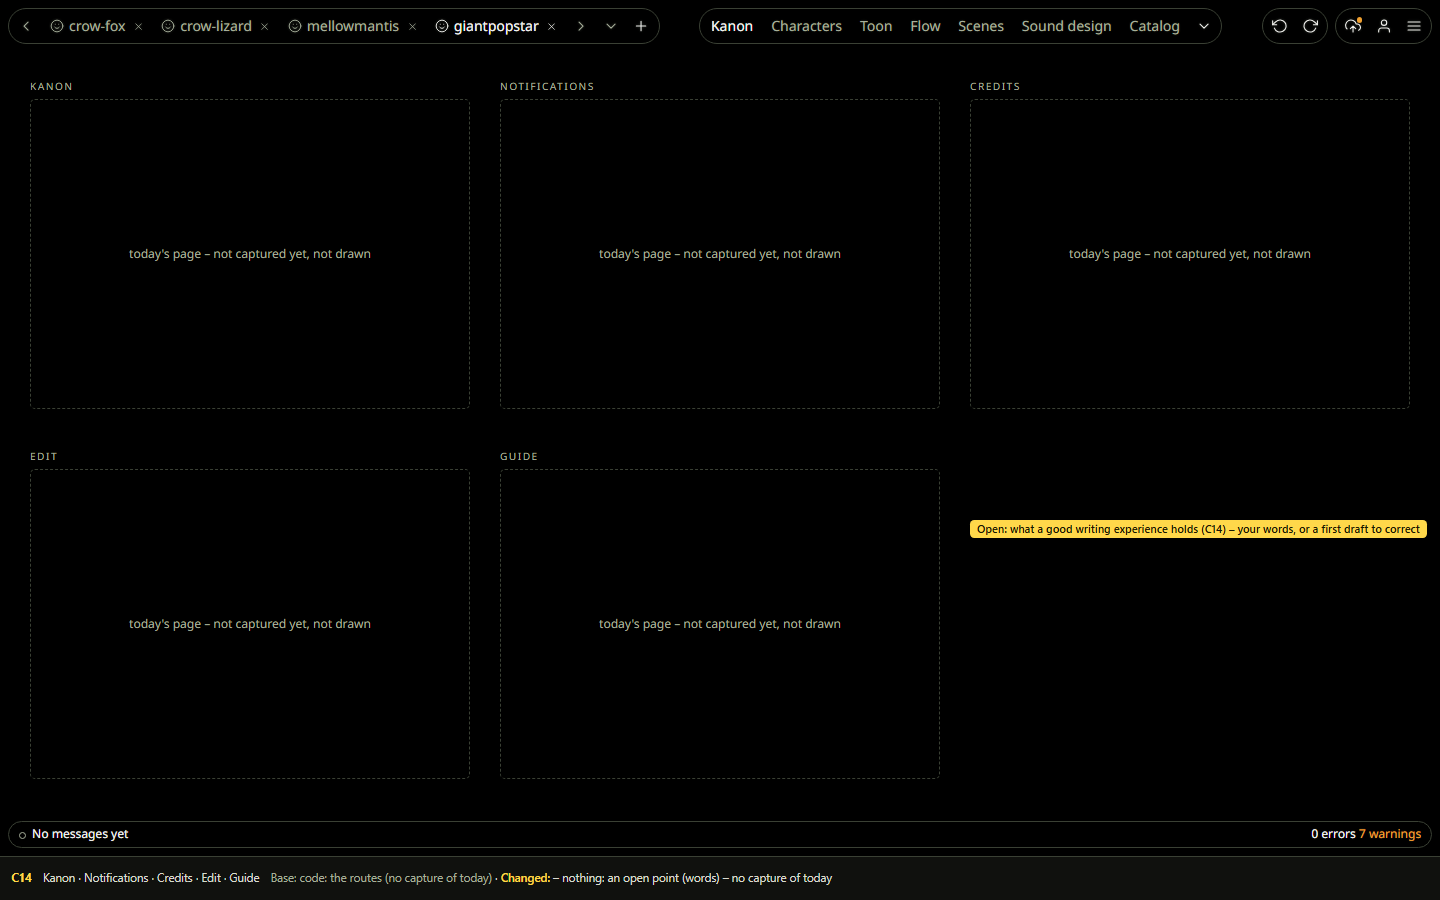
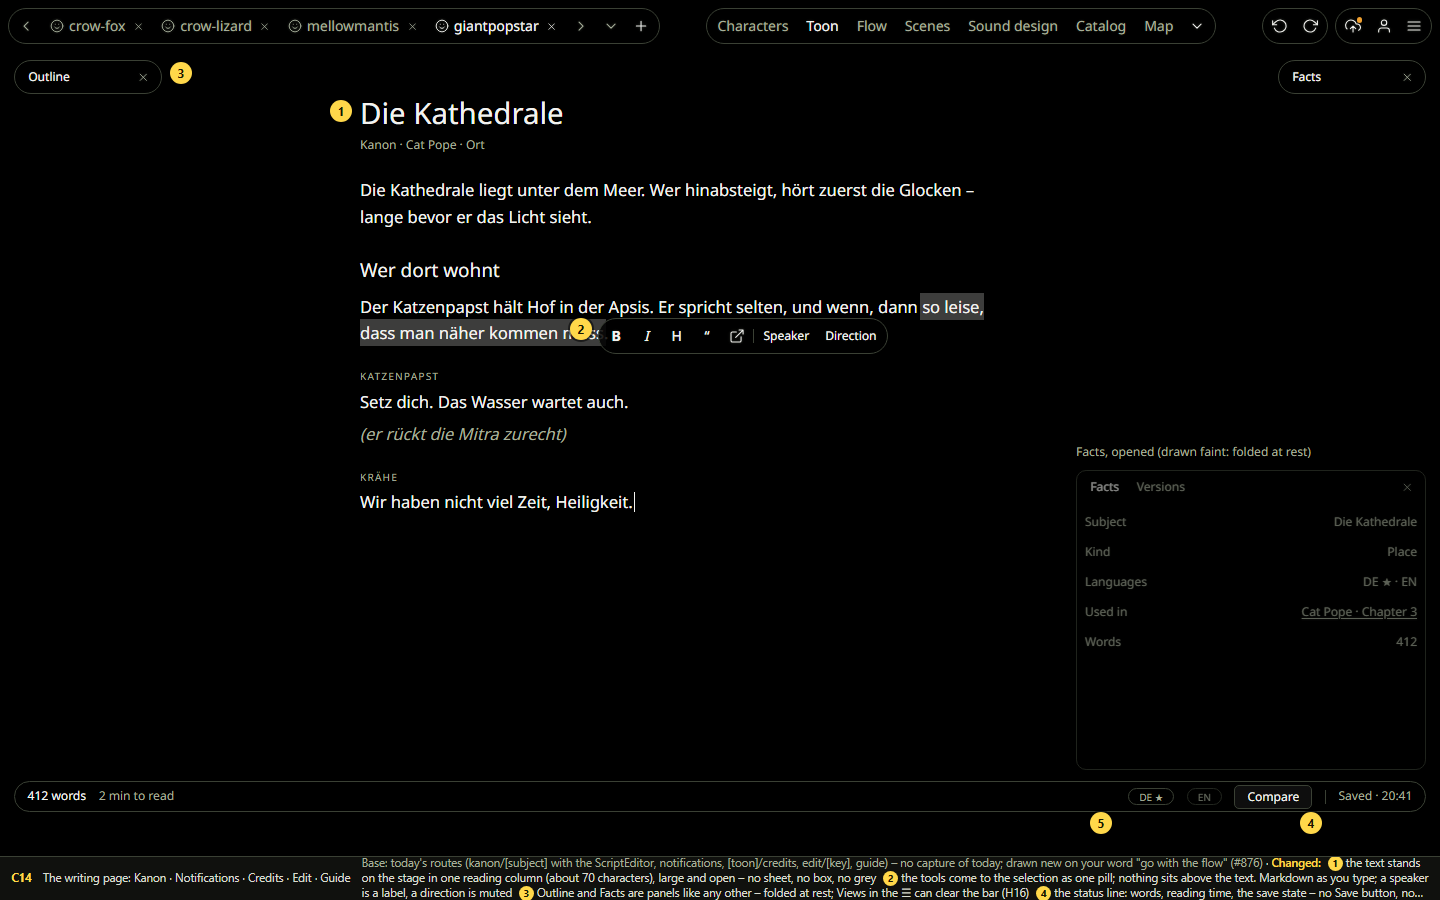
Lap 2 draft: the writing page drawn (C14, C14b) – the text on the stage in one reading column, the tools at the selection, Compare for translating (owner: "go with the flow"). Refs #876

diff --git a/agents/research/redesign/lap2/draft-screens.js b/agents/research/redesign/lap2/draft-screens.js
@@ -559,10 +559,44 @@ add('C', 'C13', 'Settings', "the Settings panel in now/creator-6 (the owner's ci
     <div style="border-top:1px solid var(--tool-line);margin:.4rem -.6rem"></div><div class="fold label">AI &amp; generation</div><div style="text-decoration:underline;text-underline-offset:.2em">Docs ↗</div>`, { style: 'z-index:30' })}
   ${mk(1, 1012, 218)}${mk(1, 1012, 470)}${mk(2, 1012, 140)}${mk(3, 1012, 560)}${mk(3, 1012, 610)}`);
 
-add('C', 'C14', 'Kanon · Notifications · Credits · Edit · Guide', 'code: the routes (no capture of today)', [],
-  () => `${cbar({ chevron: true, wsOn: 'Kanon', ws: ['Kanon', ...WS_TODAY.slice(0, 6)] })}
-  ${['Kanon','Notifications','Credits','Edit','Guide'].map((n, i) => `<div class="abs" style="left:${30 + (i % 3) * 470}px;top:${80 + Math.floor(i / 3) * 370}px;width:440px;height:340px"><div class="label" style="margin-bottom:.4rem">${n}</div><div style="height:310px">${pageNotShot('today\'s page – not captured yet, not drawn')}</div></div>`).join('')}${cstatus()}
-  ${capn(970, 520, 'Open: what a good writing experience holds (C14) – your words, or a first draft to correct')}`, { idle: ' – nothing: an open point (words) – no capture of today' });
+/* the writing page (owner 2026-11-24: "i want a good writing experience"; "go with the flow" on #876): the text stands on the stage in one reading column – no sheet, no box, no grey; the tools come to the selection; outline and facts are panels */
+const WR_P = (t, o = {}) => `<p style="margin:0 0 ${o.gap ?? 1.15}rem;${o.style || ''}">${t}</p>`;
+const WR_SP = (who) => `<div class="label" style="margin:1.5rem 0 .3rem;letter-spacing:.12em">${who}</div>`;
+const writingCol = (x, w, o = {}) => `<div class="abs" style="left:${x}px;top:${o.top ?? 96}px;width:${w}px;font-size:${o.size || '1.18rem'};line-height:1.62;text-shadow:none">
+    ${o.lang ? `<div class="label" style="margin-bottom:.5rem">${o.lang}</div>` : ''}
+    <div style="font-size:${o.h || '2.1rem'};line-height:1.2;margin-bottom:.3rem">${o.title}</div>
+    <div class="small muted" style="margin-bottom:1.6rem">${o.sub}</div>
+    ${o.body}</div>`;
+const WR_DE = () => `${WR_P('Die Kathedrale liegt unter dem Meer. Wer hinabsteigt, hört zuerst die Glocken – lange bevor er das Licht sieht.')}
+    <div style="font-size:1.35rem;margin:1.7rem 0 .6rem">Wer dort wohnt</div>
+    ${WR_P('Der Katzenpapst hält Hof in der Apsis. Er spricht selten, und wenn, dann <span style="background:var(--tool-selection);box-shadow:0 0 0 2px var(--tool-selection)">so leise, dass man näher kommen muss</span>.')}
+    ${WR_SP('Katzenpapst')}${WR_P('Setz dich. Das Wasser wartet auch.', { gap: .4 })}
+    ${WR_P('<span class="muted" style="font-style:italic">(er rückt die Mitra zurecht)</span>')}
+    ${WR_SP('Krähe')}${WR_P('Wir haben nicht viel Zeit, Heiligkeit.<span style="display:inline-block;width:1px;height:1.2em;background:var(--tool-text);vertical-align:-.2em;margin-left:1px"></span>')}`;
+add('C', 'C14', 'The writing page: Kanon · Notifications · Credits · Edit · Guide', "today's routes (kanon/[subject] with the ScriptEditor, notifications, [toon]/credits, edit/[key], guide) – no capture of today; drawn new on your word \"go with the flow\" (#876)",
+  ['the text stands on the stage in one reading column (about 70 characters), large and open – no sheet, no box, no grey',
+   'the tools come to the selection as one pill; nothing sits above the text. Markdown as you type; a speaker is a label, a direction is muted',
+   'Outline and Facts are panels like any other – folded at rest; Views in the ☰ can clear the bar (H16)',
+   'the status line: words, reading time, the save state – no Save button, no refresh (H19)',
+   'translating: the edit language in the translator\'s bar; "Compare" puts the source beside it, same column width',
+   'the same page for all five: Kanon and Edit write, Notifications and Credits are lists of short texts in the same column, Guide reads'],
+  () => `${cbar({ chevron: true, wsOn: 'Toon', ws: WS_TODAY })}
+  ${writingCol(360, 640, { title: 'Die Kathedrale', sub: 'Kanon · Cat Pope · Ort', body: WR_DE() })}
+  <div class="kp abs" style="left:598px;top:318px;z-index:20;background:var(--tool-popover)">${[['B', 'Bold', 'font-weight:700'], ['I', 'Italic', 'font-style:italic'], ['H', 'Heading', ''], ['“', 'Quote', '']].map(([c, n, st], i) => `<span class="kib ${i === 0 ? 'on' : ''}" title="${n}" style="${st}">${c}</span>`).join('')}<span class="kib" title="Link">${ic('ext')}</span><span style="width:1px;height:1rem;background:var(--tool-line)"></span><span class="small" style="padding:0 .5rem">Speaker</span><span class="small" style="padding:0 .5rem">Direction</span></div>
+  ${folded(14, 60, 'Outline', 148)}${folded(1278, 60, 'Facts', 148)}
+  ${fp(1076, 470, 350, 300, [['Facts', 1], ['Versions', 0]], `<div class="lrow"><span class="muted">Subject</span><span class="m">Die Kathedrale</span></div><div class="lrow"><span class="muted">Kind</span><span class="m">Place</span></div><div class="lrow"><span class="muted">Languages</span><span class="m">DE ★ · EN</span></div><div class="lrow"><span class="muted">Used in</span><span class="m" style="text-decoration:underline;text-underline-offset:.2em">Cat Pope · Chapter 3</span></div><div class="lrow"><span class="muted">Words</span><span class="m">412</span></div>`, { style: 'opacity:.55' })}
+  <div class="abs small muted" style="left:1076px;top:444px">Facts, opened (drawn faint: folded at rest)</div>
+  <div class="abs" style="left:14px;right:14px;bottom:44px;height:2.2rem;display:flex;align-items:center;gap:.9rem;padding:0 .9rem;border:1px solid var(--tool-line);border-radius:1.1rem;font-size:var(--editor-small)"><span>412 words</span><span class="muted">2 min to read</span><span style="flex:1"></span><span class="kc">DE ★</span><span class="kc" style="opacity:.6">EN</span><span class="kb plain" style="height:1.7rem">Compare</span><span style="width:1px;height:1rem;background:var(--tool-line)"></span><span class="muted">Saved · 20:41</span></div>
+  ${mk(1, 330, 100)}${mk(2, 570, 318)}${mk(3, 170, 62)}${mk(4, 1300, 812)}${mk(5, 1090, 812)}`);
+add('C', 'C14b', 'The writing page: translating (Compare)', 'C14 · the translator\'s bar (A9)',
+  ['the source left, the edit language right – two reading columns of the same width, paragraph beside paragraph',
+   'the source is read-only and quieter; a paragraph not translated yet shows as an empty line to fill, never a warning (H17)'],
+  () => `${cbar({ chevron: true, wsOn: 'Toon', ws: WS_TODAY })}
+  ${writingCol(120, 540, { lang: 'DE ★ · source', title: 'Die Kathedrale', sub: 'Kanon · Cat Pope · Ort', size: '1.08rem', h: '1.8rem', body: `<div style="opacity:.62">${WR_P('Die Kathedrale liegt unter dem Meer. Wer hinabsteigt, hört zuerst die Glocken – lange bevor er das Licht sieht.')}<div style="font-size:1.25rem;margin:1.5rem 0 .6rem">Wer dort wohnt</div>${WR_P('Der Katzenpapst hält Hof in der Apsis. Er spricht selten, und wenn, dann so leise, dass man näher kommen muss.')}${WR_SP('Katzenpapst')}${WR_P('Setz dich. Das Wasser wartet auch.')}</div>` })}
+  <div class="abs" style="left:720px;top:96px;bottom:110px;width:1px;background:var(--tool-line)"></div>
+  ${writingCol(780, 540, { lang: 'EN · you write', title: 'The Cathedral', sub: 'Kanon · Cat Pope · Place', size: '1.08rem', h: '1.8rem', body: `${WR_P('The cathedral lies under the sea. Whoever climbs down hears the bells first – long before the light.')}<div style="font-size:1.25rem;margin:1.5rem 0 .6rem">Who lives there</div>${WR_P('The Cat Pope holds court in the apse. He rarely speaks, and when he does<span style="display:inline-block;width:1px;height:1.2em;background:var(--tool-text);vertical-align:-.2em;margin-left:1px"></span>')}${WR_SP('Cat Pope')}<div style="height:1.7rem;border-bottom:1px dashed var(--tool-line)"></div>` })}
+  <div class="abs" style="left:14px;right:14px;bottom:44px;height:2.2rem;display:flex;align-items:center;gap:.9rem;padding:0 .9rem;border:1px solid var(--tool-line);border-radius:1.1rem;font-size:var(--editor-small)"><span>3 of 4 paragraphs</span><span style="flex:1"></span><span class="kc" style="opacity:.6">DE ★</span><span class="kc">EN</span><span class="kb plain on" style="height:1.7rem">Compare</span><span style="width:1px;height:1rem;background:var(--tool-line)"></span><span class="muted">Saved · 20:44</span></div>
+  ${mk(1, 700, 100)}${mk(2, 1330, 372)}`);
 
 add('C', 'C15', 'XR (creator-only)', "epic-drafts `?s=714` (scenes session, 6c8e7758b), its palette moved to D; crafts-v2 `xr` as lap 1", ['the XR workspace is a creator workspace with the Place tab (E2) – as drawn there'],
   () => `<iframe class="draft" src="assets/drafts/epic-drafts.html?s=714${DAY ? '&theme=day' : ''}"></iframe>`);

diff --git a/agents/research/redesign/lap2/SCREENS.md b/agents/research/redesign/lap2/SCREENS.md
@@ -56,7 +56,8 @@ Every screen is 1440×900, night first, drawn from today's screen (`now/`, the w
 | C12b | Library: the browser | the cast's place (Cat Pope · Season 1) with Cat Pope stepped into: personas → looks → moods, its files beside them, "used in"; no "To do" / Missing credits (H17) | current (card: "By cast") |
 | C12c | Library: the pick | opened from a chapter event's character slot: Characters only, "Cat Pope · Season 1 · cast" first, everyone else after; picking beyond the cast adds to it | current (card: one picker) |
 | C13 | Settings | kit look; the colour-blind mode as a setting | current |
-| C14 | Kanon · Notifications · Credits · Edit · Guide | to be redesigned for a good writing experience – not only the kit look; today's pages are not captured yet | words – no capture of today: empty frames and the open point |
+| C14 | The writing page (Kanon · Notifications · Credits · Edit · Guide) | the text on the stage in one reading column, no sheet or box; the tools come to the selection; Outline and Facts as panels; words, reading time and the save state in the status line – drawn on your word "go with the flow" (#876), yours to correct | current – drawn new, no capture of today |
+| C14b | The writing page: translating | Compare: the source beside the edit language, two columns of the same width; an untranslated paragraph is an empty line, never a warning | current – drawn new |
 | C15 | XR | a creator workspace, with the Place tab | moved – epic-drafts `?s=714` |
 
 ## D · The deck's workspaces
